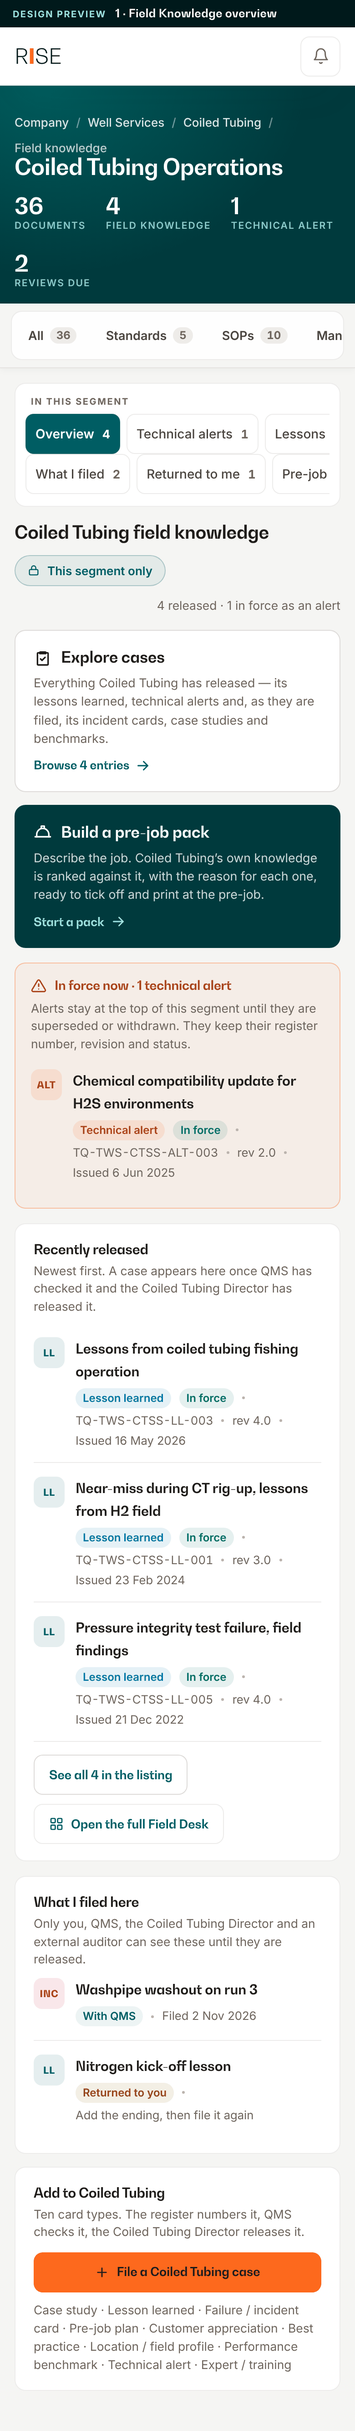
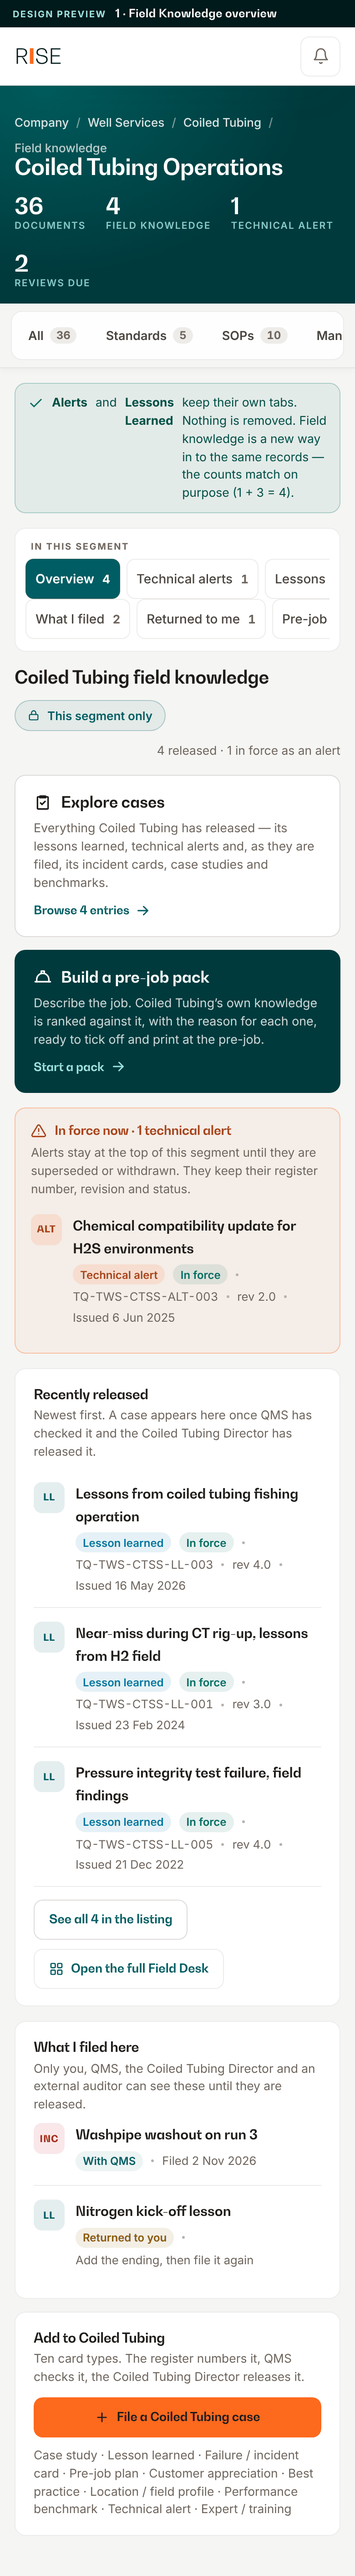
docs: keep the Alerts and Lessons Learned tabs in the previews; rework the maintenance view
Fixes a contradiction the owner spotted. Part 8 promised that no tab is
removed, but the preview tab bars had silently dropped Alerts and Lessons
Learned. They are restored: the bar now carries all nine of today's tabs
plus Field knowledge, with Alerts 1 and Lessons Learned 3 shown beside
Field knowledge 4 so the overlap is visible rather than hidden, and a
line under the bar says the old tabs stay and nothing is removed. Ten
tabs no longer fit one row at 1440px, so the bar wraps on a desk screen
and stays a horizontal scroller on a phone.

Maintenance Manager view reworked to the owner's rule: a maintenance
manager edits only within the maintenance department of his own
operational segment. The pre-job pack is therefore not offered on his
view at all - not greyed out, not behind a message - with a short card
saying the crew going out on the job builds the pack. The case list stays
read-only with technical alerts first; whether he needs the list at all,
or only the alerts, is left as an open question for the owner.

Added four close-up renders so the owner can see the kept tabs, the
pre-job safety caution and the two maintenance rules without reading the
full page.

Design only. No application file is changed, nothing merged, nothing
deployed.

Claude-Session: https://claude.ai/code/session_01NNG4UEubHEBrGHhTeLRLzA

Changed region(s): [[0.0, 0.0, 1.0, 0.9959], [0.8923, 0.0, 0.9231, 0.0311]]

diff --git a/docs/design-audit/previews/v2/b7-maintenance-readonly.html b/docs/design-audit/previews/v2/b7-maintenance-readonly.html
@@ -17,7 +17,7 @@
   <h1>Coiled Tubing Operations</h1>
   
   <div class="figs"><span class="fig"><b>36</b><span>Documents</span></span><span class="fig"><b>4</b><span>Field knowledge</span></span><span class="fig"><b>1</b><span>Technical alert</span></span><span class="fig"><b>&mdash;</b><span>Reviews due</span></span></div>
-</section><div class="tabs-outer"><div class="tabs" role="tablist" aria-label="Coiled Tubing"><button class="tab" role="tab" aria-selected="false">All <span class="c">36</span></button><button class="tab" role="tab" aria-selected="false">Standards <span class="c">5</span></button><button class="tab" role="tab" aria-selected="false">SOPs <span class="c">10</span></button><button class="tab" role="tab" aria-selected="false">Manuals <span class="c">0</span></button><button class="tab" role="tab" aria-selected="false">Forms <span class="c">1</span></button><button class="tab" role="tab" aria-selected="false">Bulletins <span class="c">0</span></button><button class="tab" role="tab" aria-selected="false">Software <span class="c">0</span></button><button class="tab kn" role="tab" aria-selected="true">Field knowledge <span class="c">4</span></button></div></div>
+</section><div class="tabs-outer"><div class="tabs" role="tablist" aria-label="Coiled Tubing"><button class="tab" role="tab" aria-selected="false">All <span class="c">36</span></button><button class="tab" role="tab" aria-selected="false">Standards <span class="c">5</span></button><button class="tab" role="tab" aria-selected="false">SOPs <span class="c">10</span></button><button class="tab" role="tab" aria-selected="false">Manuals <span class="c">0</span></button><button class="tab" role="tab" aria-selected="false">Forms &amp; Checklists <span class="c">1</span></button><button class="tab" role="tab" aria-selected="false">Bulletins <span class="c">0</span></button><button class="tab" role="tab" aria-selected="false">Alerts <span class="c">1</span></button><button class="tab" role="tab" aria-selected="false">Lessons Learned <span class="c">3</span></button><button class="tab" role="tab" aria-selected="false">Software <span class="c">0</span></button><button class="tab kn" role="tab" aria-selected="true">Field knowledge <span class="c">4</span></button></div></div>
 <main class="wrap">
   <div class="cols">
     <nav class="rail" aria-label="Within Coiled Tubing field knowledge"><h3>In this segment</h3><ul><li><a href="#" aria-current="page">Everything <span class="n">4</span></a></li><li><a href="#">Technical alerts <span class="n">1</span></a></li><li><a href="#">Lessons learned <span class="n">3</span></a></li><li><a href="#" class="zero">Failures to watch <span class="n">0</span></a></li><li><a href="#" class="zero">What worked <span class="n">0</span></a></li></ul><hr><div class="foot"><p class="note" style="font-size:12.4px;">Read access to Coiled Tubing only &mdash; the segment whose maintenance department you manage. Other segments are not listed and not reachable from here.</p></div></nav>
@@ -26,27 +26,27 @@
       <div style="display:flex;align-items:center;gap:12px;flex-wrap:wrap;">
         <h2 class="sec">Coiled Tubing field knowledge</h2>
         <span class="lock"><svg viewBox="0 0 24 24" fill="none" stroke="currentColor" stroke-width="2" stroke-linecap="round" stroke-linejoin="round" aria-hidden="true"><rect x="4" y="10" width="16" height="10" rx="2"/><path d="M8 10V7a4 4 0 0 1 8 0v3"/></svg>This segment only</span>
-        <span class="badge ro" style="min-height:30px;padding:0 11px;"><svg viewBox="0 0 24 24" fill="none" stroke="currentColor" stroke-width="2" stroke-linecap="round" stroke-linejoin="round" aria-hidden="true"><path d="M2 12s3.6-7 10-7 10 7 10 7-3.6 7-10 7-10-7-10-7Z"/><circle cx="12" cy="12" r="3"/></svg> Read only</span>
+        <span class="badge ro" style="min-height:30px;padding:0 11px;"><svg viewBox="0 0 24 24" fill="none" stroke="currentColor" stroke-width="2" stroke-linecap="round" stroke-linejoin="round" aria-hidden="true"><path d="M2 12s3.6-7 10-7 10 7 10 7-3.6 7-10 7-10-7-10-7Z"/><circle cx="12" cy="12" r="3"/></svg> Reading only</span>
       </div>
 
       <div class="robar"><svg viewBox="0 0 24 24" fill="none" stroke="currentColor" stroke-width="2" stroke-linecap="round" stroke-linejoin="round" aria-hidden="true"><path d="M2 12s3.6-7 10-7 10 7 10 7-3.6 7-10 7-10-7-10-7Z"/><circle cx="12" cy="12" r="3"/></svg>
         <div>
-          <p style="font:600 14px/1.4 var(--text);color:var(--ink);">You are reading as <b>Maintenance Manager, Coiled Tubing</b>.</p>
-          <p class="note" style="margin-top:5px;">You can read everything Coiled Tubing has released, subject to each
-          document’s classification. Reading does not let you file, check, approve, return or change a record &mdash; field cases
-          are filed by operations and released by the Segment Director. Nothing here is hidden from you that an operations
-          colleague of the same clearance would see.</p>
+          <p style="font:600 14.5px/1.4 var(--text);color:var(--ink);">You are <b>Maintenance Manager, Coiled Tubing</b>.</p>
+          <p class="note" style="margin-top:6px;">Here you <b>read</b> what Coiled Tubing has released, subject to each
+          document&rsquo;s classification. You cannot file, check, approve, return or change anything on this tab.
+          <b>Your editing is in maintenance</b> &mdash; the maintenance department of this segment &mdash; not in field cases
+          and not in any other segment.</p>
         </div>
       </div>
 
       <div class="fbar">
         <span class="srch"><svg viewBox="0 0 24 24" fill="none" stroke="currentColor" stroke-width="2" stroke-linecap="round" stroke-linejoin="round" aria-hidden="true"><circle cx="11" cy="11" r="7"/><path d="m20 20-3.5-3.5"/></svg><input placeholder="Search within Coiled Tubing" aria-label="Search within Coiled Tubing"></span>
-        <button class="chip">Service</button><button class="chip">Ended with</button>
-        <button class="chip">Hole size</button><button class="chip">Type</button>
+        <button class="chip">Service</button><button class="chip">Type</button><button class="chip">Year</button>
       </div>
 
       <div class="shelf">
         <h3><svg viewBox="0 0 24 24" fill="none" stroke="currentColor" stroke-width="2" stroke-linecap="round" stroke-linejoin="round" aria-hidden="true"><path d="M12 9v4"/><path d="M12 17h.01"/><path d="M10.3 3.9 1.8 18a2 2 0 0 0 1.7 3h17a2 2 0 0 0 1.7-3L13.7 3.9a2 2 0 0 0-3.4 0Z"/></svg>Technical alerts in force &middot; 1</h3>
+        <p class="note" style="margin:5px 0 2px;">The one thing a maintenance manager should never miss. Read access is enough to see it.</p>
         <div class="entry"><span class="mark alt">ALT</span><span class="entry-tx"><a href="#">Chemical compatibility update for H2S environments</a><span class="entry-m"><span class="badge alt">Technical alert</span><span class="badge ok">In force</span><i class="dot"></i><span class="num">TQ-TWS-CTSS-ALT-003</span><i class="dot"></i><span class="num">rev 2.0</span><i class="dot"></i><span>Issued 6 Jun 2025</span></span></span></div>
       </div>
 
@@ -56,6 +56,12 @@
       </div>
 
       <div class="grid2">
+        <div class="card pad" style="border-color:rgba(0,93,99,.3);">
+          <h3 class="sub"><svg viewBox="0 0 24 24" fill="none" stroke="currentColor" stroke-width="2" stroke-linecap="round" stroke-linejoin="round" aria-hidden="true"><path d="M2 18h20"/><path d="M4 18v-3a8 8 0 0 1 16 0v3"/><path d="M10 6V4h4v2"/></svg> No pre-job pack here</h3>
+          <p class="note" style="margin:7px 0 0;">A pre-job pack is built by the crew going out on the job. It is not part of
+          the maintenance manager&rsquo;s work, so it is <b>not offered on this view at all</b> &mdash; not greyed out, not hidden
+          behind a message. Operations builds the pack.</p>
+        </div>
         <div class="card pad">
           <h3 class="sub">What you cannot do here</h3>
           <ul class="nolist">
@@ -63,24 +69,23 @@
             <li>Check or approve one &mdash; <b>QMS checks, the Director releases</b></li>
             <li>Return, withdraw or edit a released record</li>
             <li>Read a record above your classification</li>
-            <li>Open another segment’s field knowledge from here</li>
+            <li>Open another segment&rsquo;s field knowledge</li>
           </ul>
-          <p class="note" style="margin-top:11px;">These controls are not shown rather than shown-and-disabled, so the page
-          stays honest about what is yours to do.</p>
-        </div>
-        <div class="card pad">
-          <h3 class="sub">Your own desk</h3>
-          <p class="note" style="margin:6px 0 12px;">Maintenance for Coiled Tubing &mdash; your queue, your equipment and your
-          department’s documents &mdash; is where your actions live.</p>
-          <a class="btn" href="#">Open the Coiled Tubing maintenance desk</a>
-          <p class="note" style="margin-top:10px;">You manage the maintenance department of this segment by default, not
-          every operational segment.</p>
+          <p class="note" style="margin-top:11px;">These controls are not shown at all, rather than shown and disabled.</p>
         </div>
       </div>
 
+      <div class="card pad" style="background:var(--teal-800);border-color:transparent;color:#fff;">
+        <h3 class="sub" style="color:#fff;">Where your actions live</h3>
+        <p class="note" style="color:rgba(255,255,255,.80);margin:7px 0 14px;">Maintenance for Coiled Tubing &mdash; your queue,
+        your equipment, your department&rsquo;s documents. That is where you add, edit and approve. You manage the maintenance
+        department of <b style="color:#fff;">this segment only</b>, not every operational segment.</p>
+        <a class="btn" href="#" style="background:var(--teal-200);border-color:transparent;color:var(--teal-950);">Open the Coiled Tubing maintenance desk <svg viewBox="0 0 24 24" fill="none" stroke="currentColor" stroke-width="2" stroke-linecap="round" stroke-linejoin="round" aria-hidden="true"><path d="M5 12h14M13 6l6 6-6 6"/></svg></a>
+      </div>
+
       <div class="robar"><svg viewBox="0 0 24 24" fill="none" stroke="currentColor" stroke-width="2" stroke-linecap="round" stroke-linejoin="round" aria-hidden="true"><rect x="4" y="10" width="16" height="10" rx="2"/><path d="M8 10V7a4 4 0 0 1 8 0v3"/></svg><p class="note"><b>Prototype note.</b> In this preview the boundary is applied in the
-      browser, so it is a user-experience boundary, not a security control. In production the segment comes from the
-      signed-in person’s Entra ID claims and the server returns only what they may read.</p></div>
+      browser, so it is a user-experience boundary, not a security control. In production the segment and the role come from
+      the signed-in person&rsquo;s Entra ID claims and the server returns only what they may read.</p></div>
     </section>
   </div>
 </main>

diff --git a/docs/design-audit/previews/v2/b1-overview.html b/docs/design-audit/previews/v2/b1-overview.html
@@ -17,8 +17,10 @@
   <h1>Coiled Tubing Operations</h1>
   
   <div class="figs"><span class="fig"><b>36</b><span>Documents</span></span><span class="fig"><b>4</b><span>Field knowledge</span></span><span class="fig"><b>1</b><span>Technical alert</span></span><span class="fig"><b>2</b><span>Reviews due</span></span></div>
-</section><div class="tabs-outer"><div class="tabs" role="tablist" aria-label="Coiled Tubing"><button class="tab" role="tab" aria-selected="false">All <span class="c">36</span></button><button class="tab" role="tab" aria-selected="false">Standards <span class="c">5</span></button><button class="tab" role="tab" aria-selected="false">SOPs <span class="c">10</span></button><button class="tab" role="tab" aria-selected="false">Manuals <span class="c">0</span></button><button class="tab" role="tab" aria-selected="false">Forms <span class="c">1</span></button><button class="tab" role="tab" aria-selected="false">Bulletins <span class="c">0</span></button><button class="tab" role="tab" aria-selected="false">Software <span class="c">0</span></button><button class="tab kn" role="tab" aria-selected="true">Field knowledge <span class="c">4</span></button></div></div>
+</section><div class="tabs-outer"><div class="tabs" role="tablist" aria-label="Coiled Tubing"><button class="tab" role="tab" aria-selected="false">All <span class="c">36</span></button><button class="tab" role="tab" aria-selected="false">Standards <span class="c">5</span></button><button class="tab" role="tab" aria-selected="false">SOPs <span class="c">10</span></button><button class="tab" role="tab" aria-selected="false">Manuals <span class="c">0</span></button><button class="tab" role="tab" aria-selected="false">Forms &amp; Checklists <span class="c">1</span></button><button class="tab" role="tab" aria-selected="false">Bulletins <span class="c">0</span></button><button class="tab" role="tab" aria-selected="false">Alerts <span class="c">1</span></button><button class="tab" role="tab" aria-selected="false">Lessons Learned <span class="c">3</span></button><button class="tab" role="tab" aria-selected="false">Software <span class="c">0</span></button><button class="tab kn" role="tab" aria-selected="true">Field knowledge <span class="c">4</span></button></div></div>
 <main class="wrap">
+  <p class="keepnote"><svg viewBox="0 0 24 24" fill="none" stroke="currentColor" stroke-width="2" stroke-linecap="round" stroke-linejoin="round" aria-hidden="true"><path d="m4 12 5 5L20 6"/></svg> <b>Alerts</b> and <b>Lessons Learned</b> keep their own tabs. Nothing is removed.
+  Field knowledge is a new way in to the same records &mdash; the counts match on purpose (1 + 3 = 4).</p>
   <div class="cols">
     <nav class="rail" aria-label="Within Coiled Tubing field knowledge"><h3>In this segment</h3><ul><li><a href="#" aria-current="page">Overview <span class="n">4</span></a></li><li><a href="#">Technical alerts <span class="n">1</span></a></li><li><a href="#">Lessons learned <span class="n">3</span></a></li><li><a href="#" class="zero">Failures to watch <span class="n">0</span></a></li><li><a href="#" class="zero">What worked <span class="n">0</span></a></li><li><a href="#" class="zero">Field profiles &amp; plans <span class="n">0</span></a></li></ul><hr><ul><li><a href="#">What I filed <span class="n">2</span></a></li><li><a href="#">Returned to me <span class="n">1</span></a></li><li><a href="#">Pre-job packs <span class="n">&mdash;</span></a></li></ul><hr><div class="foot"><p class="note" style="font-size:12.4px;">You are inside <b>Coiled Tubing</b>. Every count here is this segment’s. To read another segment’s knowledge, open that segment.</p></div></nav>
     <section class="stack">

diff --git a/docs/design-audit/previews/v2/b2-cases-listing.html b/docs/design-audit/previews/v2/b2-cases-listing.html
@@ -17,7 +17,7 @@
   <h1>Coiled Tubing Operations</h1>
   
   <div class="figs"><span class="fig"><b>36</b><span>Documents</span></span><span class="fig"><b>4</b><span>Field knowledge</span></span><span class="fig"><b>1</b><span>Technical alert</span></span><span class="fig"><b>2</b><span>Reviews due</span></span></div>
-</section><div class="tabs-outer"><div class="tabs" role="tablist" aria-label="Coiled Tubing"><button class="tab" role="tab" aria-selected="false">All <span class="c">36</span></button><button class="tab" role="tab" aria-selected="false">Standards <span class="c">5</span></button><button class="tab" role="tab" aria-selected="false">SOPs <span class="c">10</span></button><button class="tab" role="tab" aria-selected="false">Manuals <span class="c">0</span></button><button class="tab" role="tab" aria-selected="false">Forms <span class="c">1</span></button><button class="tab" role="tab" aria-selected="false">Bulletins <span class="c">0</span></button><button class="tab" role="tab" aria-selected="false">Software <span class="c">0</span></button><button class="tab kn" role="tab" aria-selected="true">Field knowledge <span class="c">4</span></button></div></div>
+</section><div class="tabs-outer"><div class="tabs" role="tablist" aria-label="Coiled Tubing"><button class="tab" role="tab" aria-selected="false">All <span class="c">36</span></button><button class="tab" role="tab" aria-selected="false">Standards <span class="c">5</span></button><button class="tab" role="tab" aria-selected="false">SOPs <span class="c">10</span></button><button class="tab" role="tab" aria-selected="false">Manuals <span class="c">0</span></button><button class="tab" role="tab" aria-selected="false">Forms &amp; Checklists <span class="c">1</span></button><button class="tab" role="tab" aria-selected="false">Bulletins <span class="c">0</span></button><button class="tab" role="tab" aria-selected="false">Alerts <span class="c">1</span></button><button class="tab" role="tab" aria-selected="false">Lessons Learned <span class="c">3</span></button><button class="tab" role="tab" aria-selected="false">Software <span class="c">0</span></button><button class="tab kn" role="tab" aria-selected="true">Field knowledge <span class="c">4</span></button></div></div>
 <main class="wrap">
   <div class="cols">
     <nav class="rail" aria-label="Within Coiled Tubing field knowledge"><h3>In this segment</h3><ul><li><a href="#" aria-current="page">Everything <span class="n">4</span></a></li><li><a href="#">Technical alerts <span class="n">1</span></a></li><li><a href="#">Lessons learned <span class="n">3</span></a></li><li><a href="#" class="zero">Failures to watch <span class="n">0</span></a></li><li><a href="#" class="zero">What worked <span class="n">0</span></a></li><li><a href="#" class="zero">Field profiles &amp; plans <span class="n">0</span></a></li></ul><hr><ul><li><a href="#">What I filed <span class="n">2</span></a></li><li><a href="#">Returned to me <span class="n">1</span></a></li></ul><hr><div class="foot"><p class="note" style="font-size:12.4px;">Lessons learned and technical alerts keep their own categories. Nothing is merged away.</p></div></nav>

diff --git a/docs/design-audit/previews/v2/b6-empty-slickline.html b/docs/design-audit/previews/v2/b6-empty-slickline.html
@@ -17,7 +17,7 @@
   <h1>Slickline Operations</h1>
   
   <div class="figs"><span class="fig"><b>3</b><span>Documents</span></span><span class="fig"><b>0</b><span>Field knowledge</span></span><span class="fig"><b>0</b><span>Technical alerts</span></span><span class="fig"><b>0</b><span>Reviews due</span></span></div>
-</section><div class="tabs-outer"><div class="tabs" role="tablist" aria-label="Slickline"><button class="tab" role="tab" aria-selected="false">All <span class="c">3</span></button><button class="tab" role="tab" aria-selected="false">Standards <span class="c">0</span></button><button class="tab" role="tab" aria-selected="false">SOPs <span class="c">2</span></button><button class="tab" role="tab" aria-selected="false">Manuals <span class="c">0</span></button><button class="tab" role="tab" aria-selected="false">Forms <span class="c">0</span></button><button class="tab" role="tab" aria-selected="false">Bulletins <span class="c">0</span></button><button class="tab" role="tab" aria-selected="false">Software <span class="c">0</span></button><button class="tab kn" role="tab" aria-selected="true">Field knowledge <span class="c">0</span></button></div></div>
+</section><div class="tabs-outer"><div class="tabs" role="tablist" aria-label="Slickline"><button class="tab" role="tab" aria-selected="false">All <span class="c">3</span></button><button class="tab" role="tab" aria-selected="false">Standards <span class="c">0</span></button><button class="tab" role="tab" aria-selected="false">SOPs <span class="c">2</span></button><button class="tab" role="tab" aria-selected="false">Manuals <span class="c">0</span></button><button class="tab" role="tab" aria-selected="false">Forms &amp; Checklists <span class="c">0</span></button><button class="tab" role="tab" aria-selected="false">Bulletins <span class="c">0</span></button><button class="tab" role="tab" aria-selected="false">Alerts <span class="c">0</span></button><button class="tab" role="tab" aria-selected="false">Lessons Learned <span class="c">0</span></button><button class="tab" role="tab" aria-selected="false">Software <span class="c">0</span></button><button class="tab kn" role="tab" aria-selected="true">Field knowledge <span class="c">0</span></button></div></div>
 <main class="wrap">
   <div class="cols">
     <nav class="rail" aria-label="Within Coiled Tubing field knowledge"><h3>In this segment</h3><ul><li><a href="#" aria-current="page" class="zero">Everything <span class="n">0</span></a></li><li><a href="#" class="zero">Technical alerts <span class="n">0</span></a></li><li><a href="#" class="zero">Lessons learned <span class="n">0</span></a></li><li><a href="#" class="zero">Failures to watch <span class="n">0</span></a></li><li><a href="#" class="zero">What worked <span class="n">0</span></a></li></ul><hr><ul><li><a href="#" class="zero">What I filed <span class="n">0</span></a></li></ul><hr><div class="foot"><p class="note" style="font-size:12.4px;">Slickline is one of three operational segments with nothing released yet. The others are Well Completions and Marine Services.</p></div></nav>

diff --git a/docs/design-audit/previews/v2/b5-prejob.html b/docs/design-audit/previews/v2/b5-prejob.html
@@ -17,7 +17,7 @@
   <h1>Coiled Tubing Operations</h1>
   
   <div class="figs"><span class="fig"><b>36</b><span>Documents</span></span><span class="fig"><b>4</b><span>Field knowledge</span></span><span class="fig"><b>1</b><span>Technical alert</span></span><span class="fig"><b>2</b><span>Reviews due</span></span></div>
-</section><div class="tabs-outer"><div class="tabs" role="tablist" aria-label="Coiled Tubing"><button class="tab" role="tab" aria-selected="false">All <span class="c">36</span></button><button class="tab" role="tab" aria-selected="false">Standards <span class="c">5</span></button><button class="tab" role="tab" aria-selected="false">SOPs <span class="c">10</span></button><button class="tab" role="tab" aria-selected="false">Manuals <span class="c">0</span></button><button class="tab" role="tab" aria-selected="false">Forms <span class="c">1</span></button><button class="tab" role="tab" aria-selected="false">Bulletins <span class="c">0</span></button><button class="tab" role="tab" aria-selected="false">Software <span class="c">0</span></button><button class="tab kn" role="tab" aria-selected="true">Field knowledge <span class="c">4</span></button></div></div>
+</section><div class="tabs-outer"><div class="tabs" role="tablist" aria-label="Coiled Tubing"><button class="tab" role="tab" aria-selected="false">All <span class="c">36</span></button><button class="tab" role="tab" aria-selected="false">Standards <span class="c">5</span></button><button class="tab" role="tab" aria-selected="false">SOPs <span class="c">10</span></button><button class="tab" role="tab" aria-selected="false">Manuals <span class="c">0</span></button><button class="tab" role="tab" aria-selected="false">Forms &amp; Checklists <span class="c">1</span></button><button class="tab" role="tab" aria-selected="false">Bulletins <span class="c">0</span></button><button class="tab" role="tab" aria-selected="false">Alerts <span class="c">1</span></button><button class="tab" role="tab" aria-selected="false">Lessons Learned <span class="c">3</span></button><button class="tab" role="tab" aria-selected="false">Software <span class="c">0</span></button><button class="tab kn" role="tab" aria-selected="true">Field knowledge <span class="c">4</span></button></div></div>
 <main class="wrap">
   <div class="cols-right">
     <section class="stack">

diff --git a/docs/design-audit/previews/v2/fk.css b/docs/design-audit/previews/v2/fk.css
@@ -305,3 +305,13 @@ table.mini tr:last-child td{border-bottom:0;}
 .act .go{align-items:center;}
 h2.sec svg,h3.sub svg{width:18px;height:18px;flex:none;vertical-align:-3px;}
 .jump svg{width:15px;height:15px;flex:none;}
+
+.keepnote{display:flex;gap:9px;align-items:flex-start;padding:11px 14px;margin-bottom:16px;border-radius:var(--r-md);
+  background:rgba(0,112,95,.07);border:1px solid rgba(0,112,95,.25);font:400 13.2px/1.5 var(--text);color:#005042;}
+.keepnote svg{width:17px;height:17px;flex:none;color:var(--ok);margin-top:2px;}
+.keepnote b{font-weight:700;}
+
+/* With Alerts and Lessons Learned kept, the bar is ten tabs wide. On a desk
+   screen it wraps rather than scrolling, so the new tab is never off-screen;
+   on a phone it stays a horizontal scroller, as the real bar does today. */
+@media (min-width:861px){ .tabs{flex-wrap:wrap;overflow:visible;} }

diff --git a/docs/design-audit/08-FIELD-KNOWLEDGE-DESIGN-SPEC.md b/docs/design-audit/08-FIELD-KNOWLEDGE-DESIGN-SPEC.md
@@ -106,11 +106,24 @@ knowledge is empty, the segment is not.
 
 ### 2.7 Maintenance Manager (preview 7)
 
-Read access to the one authorised segment. A read-only banner states the role and
-the limit in plain words. The rail has no "What I filed". There is no Upload in
-the topbar, no file control, no row actions. A "What you cannot do here" panel
-lists the five limits, and a "Your own desk" panel routes the manager back to the
-work that is theirs. **Controls are absent rather than shown-and-disabled.**
+Read access to the one authorised segment. A banner states it plainly:
+*"Here you read… **Your editing is in maintenance** — the maintenance department
+of this segment — not in field cases and not in any other segment."*
+
+**No pre-job pack is offered on this view at all** (owner, 5 Nov 2026). A pack is
+built by the crew going out on the job; it is not the maintenance manager's work,
+so it is not greyed out and not hidden behind a message — it is simply not there,
+and a short card explains why.
+
+The rail has no "What I filed". There is no Upload in the topbar, no file
+control, no row actions. A "What you cannot do here" panel lists the five limits,
+and a dark "Where your actions live" panel routes the manager to the Coiled
+Tubing maintenance desk. **Controls are absent rather than shown-and-disabled.**
+
+Open: the owner said "maybe cases" about whether a maintenance manager needs the
+case list at all. The preview keeps it read-only, with technical alerts first,
+on the grounds that a maintenance manager has a real reason to read an alert or
+an equipment failure. Say the word and I will cut the list down to alerts only.
 
 ### 2.8 Field Desk (preview 8, Approach C)
 
@@ -179,6 +192,11 @@ tabs never will. **This design therefore removes nothing.**
 
 **Stage 1 — Add, delete nothing.** The Field knowledge tab appears alongside
 Alerts and Lessons Learned. Three tabs, the same records, three entry points.
+**This is what the previews show**: the bar carries all nine of today's tabs plus
+Field knowledge, with Alerts at 1 and Lessons Learned at 3 beside Field knowledge
+at 4 — the counts match on purpose, and the page says so in a line under the bar.
+With ten tabs the bar no longer fits one row at 1440px, so it wraps on a desk
+screen and stays a horizontal scroller on a phone.
 Field knowledge reads the identical register query the two tabs read, so counts
 can never disagree. *Reversible by hiding one tab.*
 
@@ -265,7 +283,7 @@ operational authorisation.
 |---|---|---|---|---|---|
 | Employee | Their segments, by classification | Yes, operational segments | No | No | None |
 | Segment Director | Yes | **Own segment only** | No | **Own segment only** | **Own segment only** |
-| Maintenance Manager | **Yes — authorised segment, by classification** | **No** | No | No | **Own segment's maintenance department** |
+| Maintenance Manager | **Yes — authorised segment, by classification. No pre-job pack** | **No** | No | No | **Edits only within their own segment's maintenance department** |
 | QMS / Document Controller | Yes, per its responsibilities | No — operations files | **Yes** | No | Cross-segment, per responsibilities |
 | External Auditor | Yes, read-only, whole register | No | No | No | None |
 
